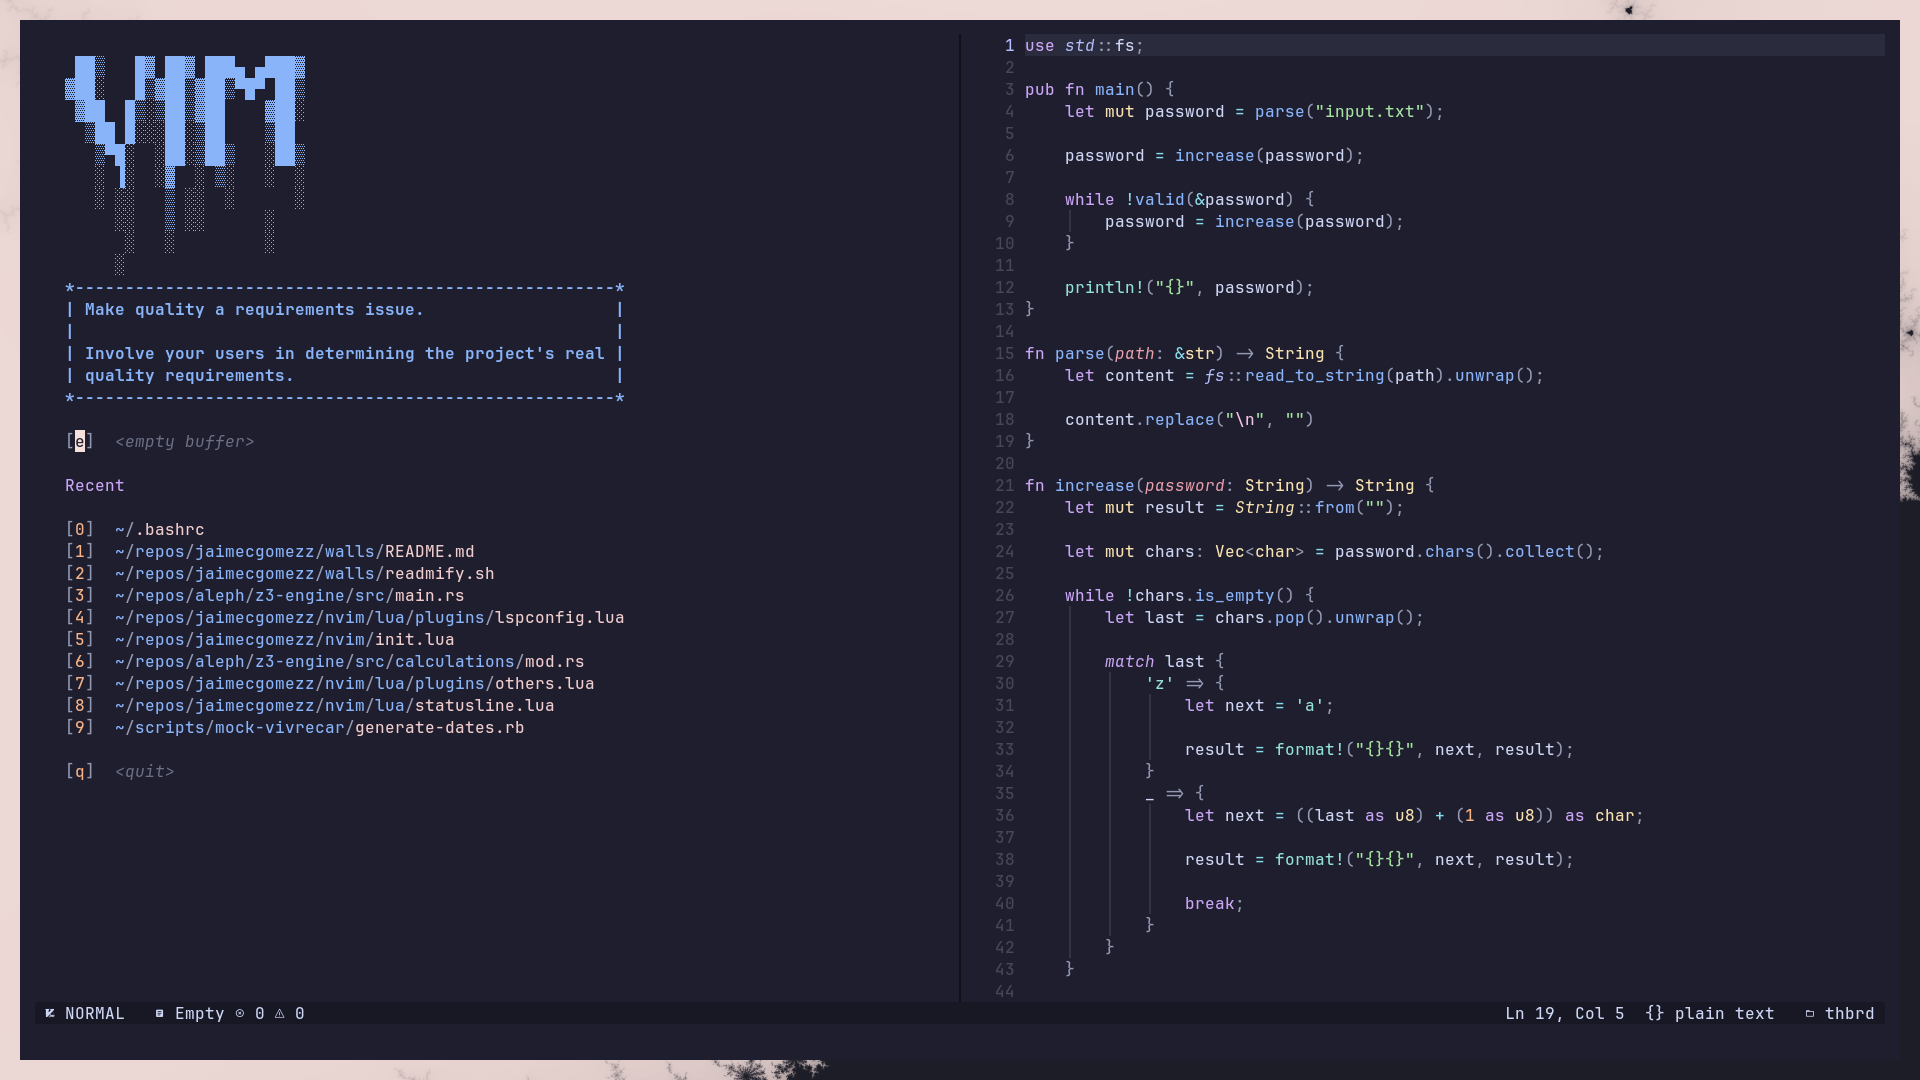
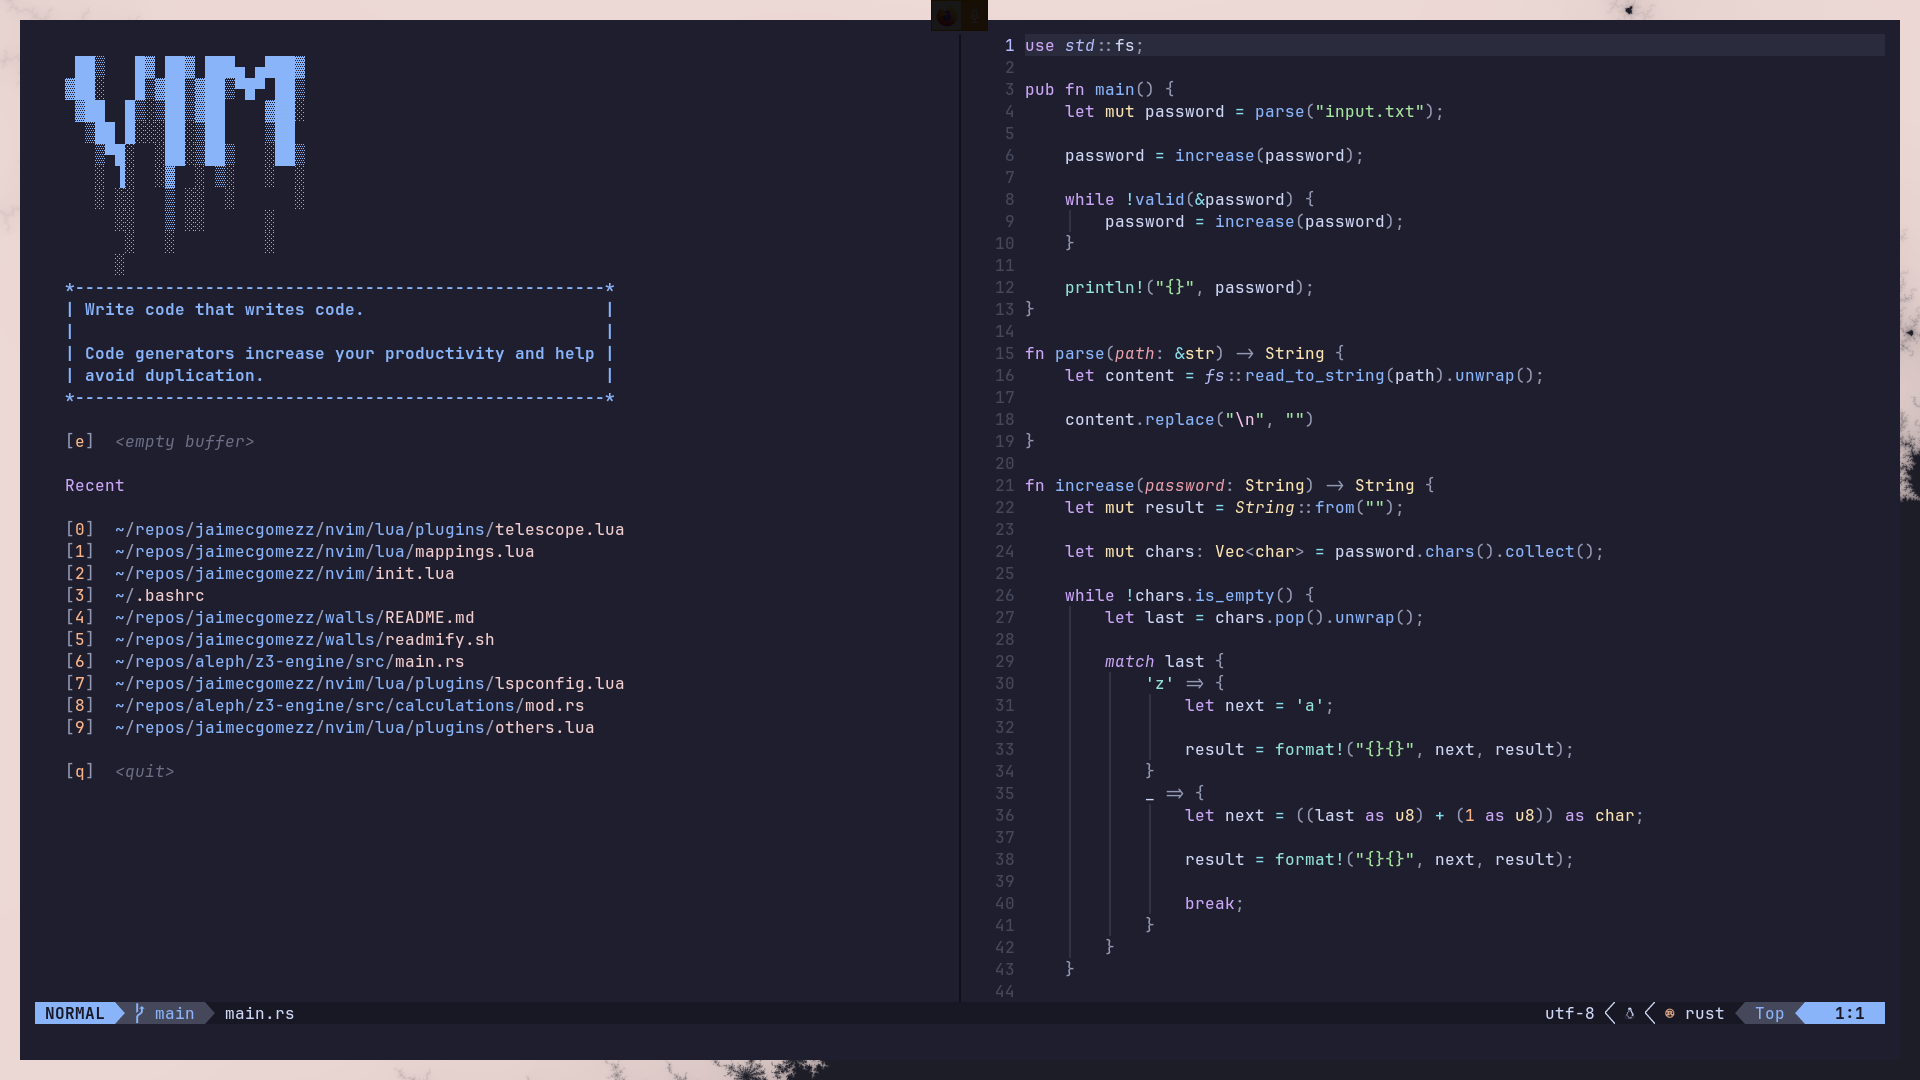
refactor: Use lualine

diff --git a/CHANGELOG.md b/CHANGELOG.md
@@ -1,5 +1,11 @@
 ## [Unreleased]
 
+## [1.4.0] - 2023-08-02
+
+### Changed
+
+- Use lualine
+
 ## [1.3.0] - 2023-08-02
 
 ### Added
